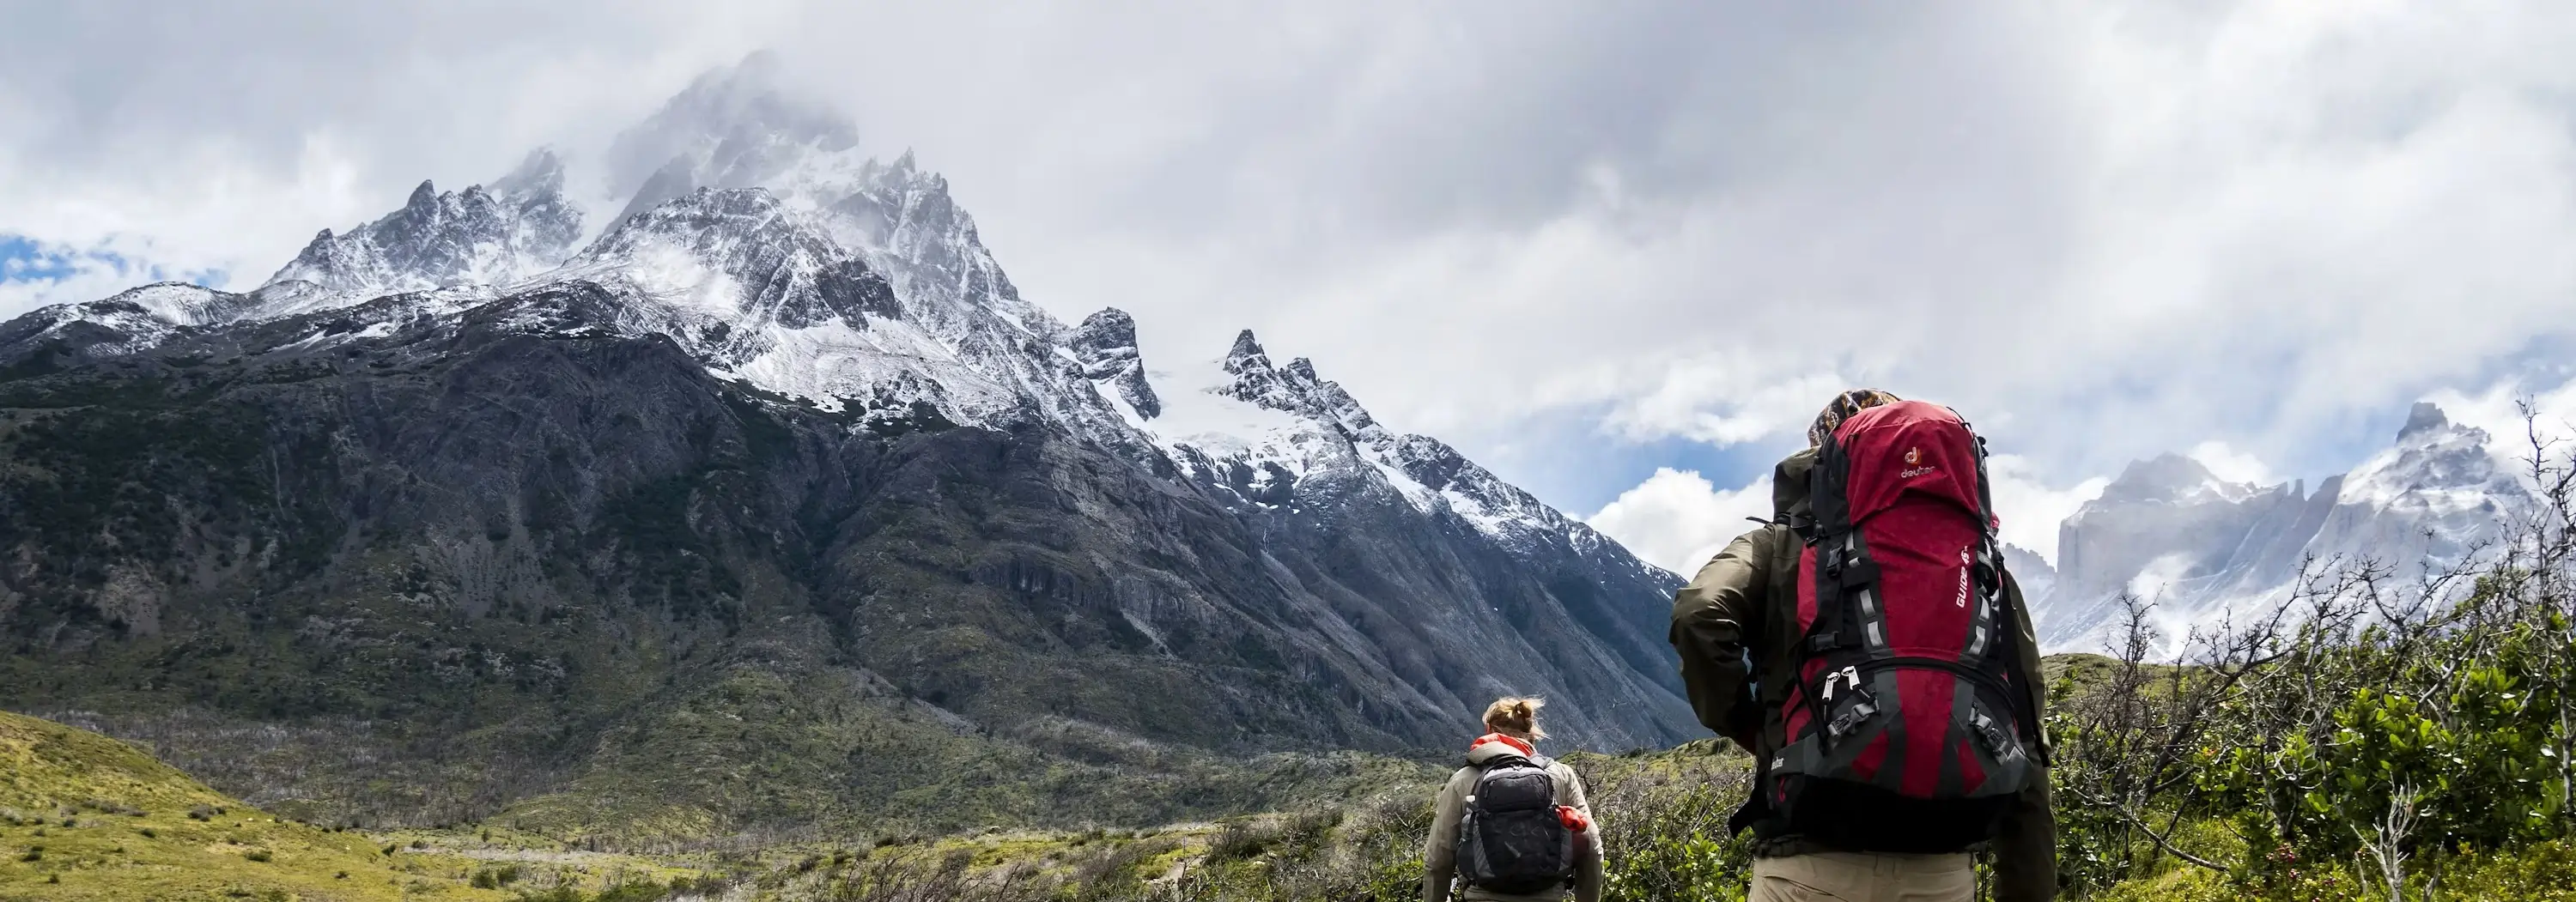
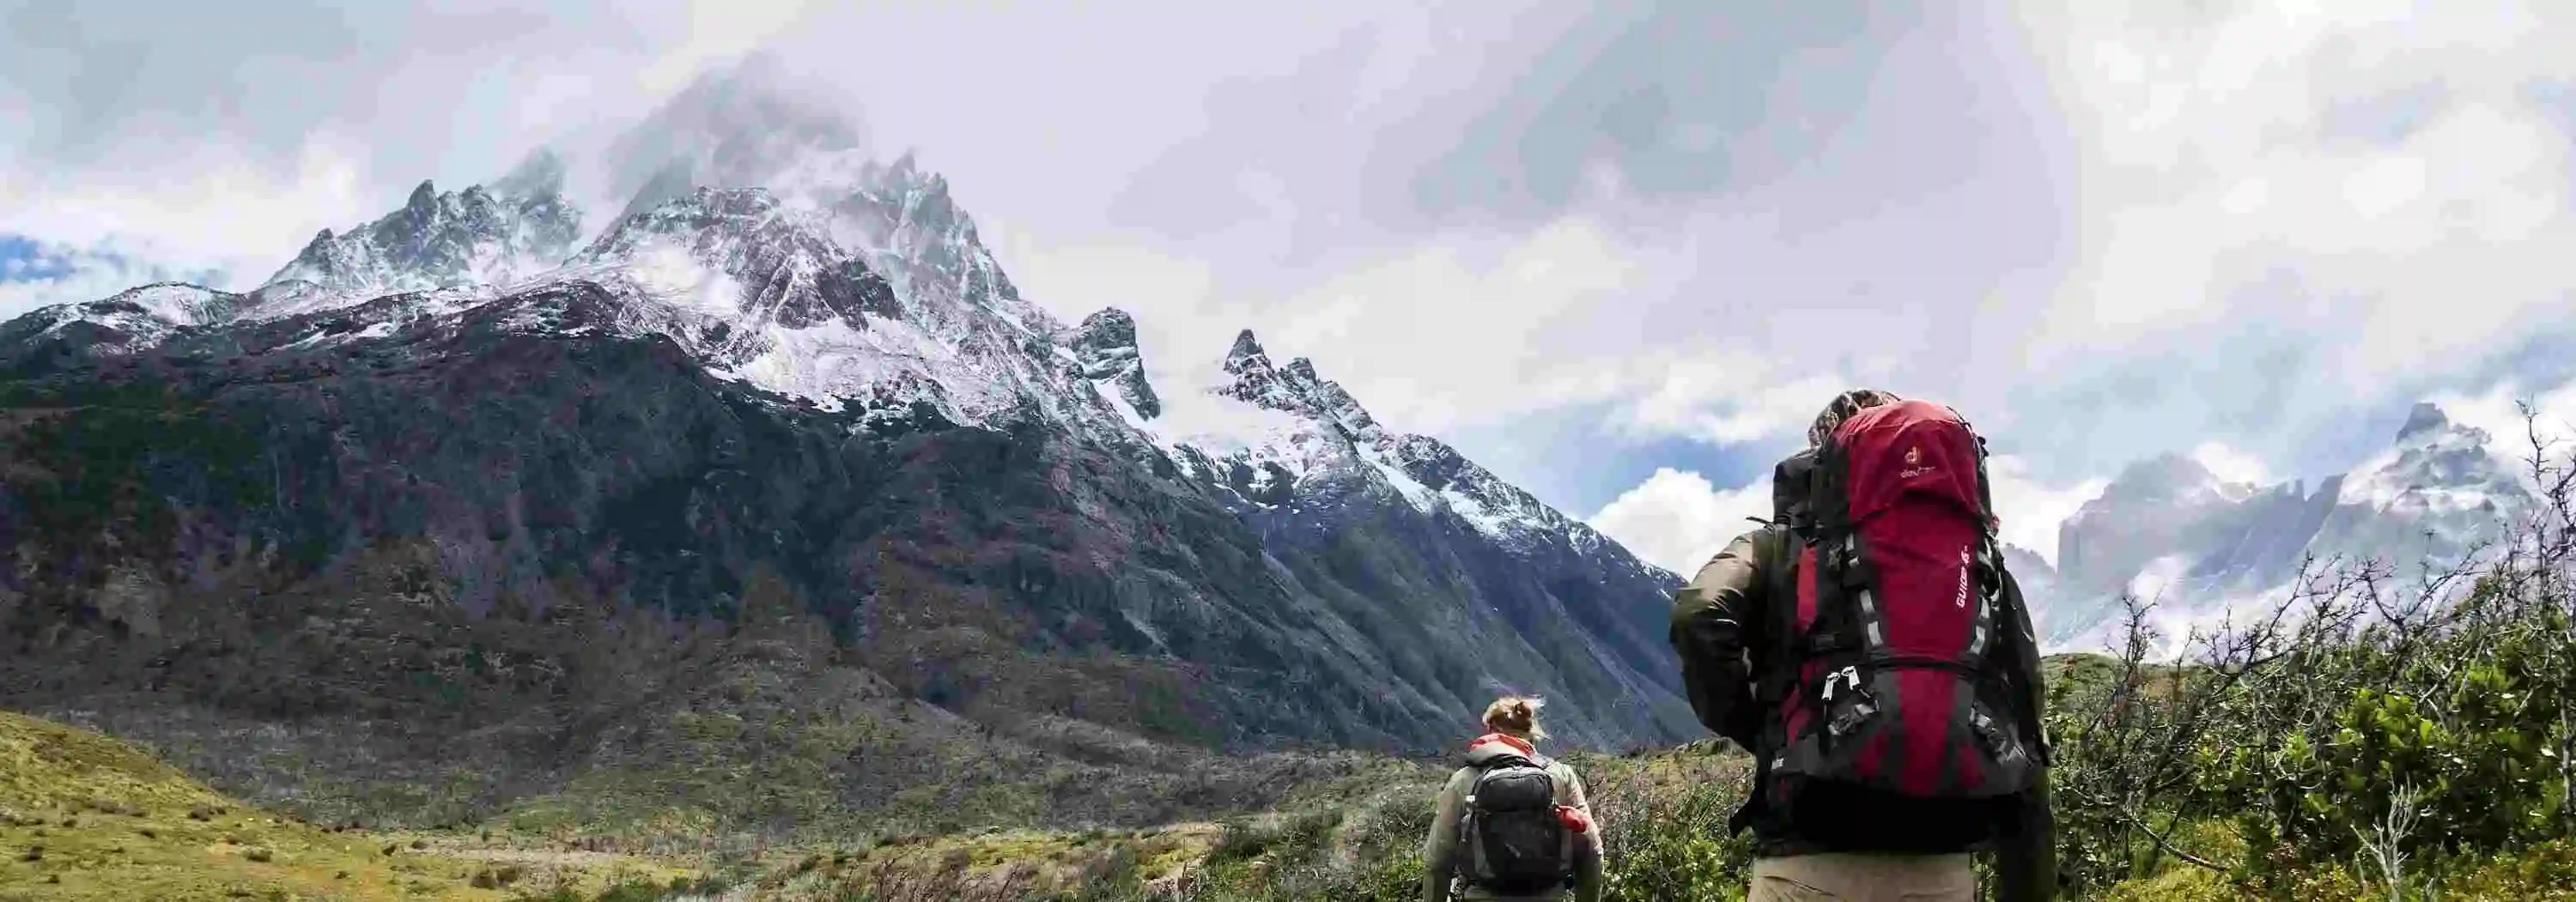
tweaks

diff --git a/final/form.html b/final/form.html
@@ -32,7 +32,7 @@
 	<body>
 		<header>
 			<img
-				src="images/siteicon.png"
+				src="images/headericon.png"
 				alt="Site Logo"
 				width="512"
 				height="512"

diff --git a/final/index.html b/final/index.html
@@ -30,7 +30,7 @@
 	<body>
 		<header>
 			<img
-				src="images/siteicon.png"
+				src="images/headericon.png"
 				alt="Site Logo"
 				width="512"
 				height="512"

diff --git a/final/locations.html b/final/locations.html
@@ -29,7 +29,7 @@
 	<body>
 		<header>
 			<img
-				src="images/siteicon.png"
+				src="images/headericon.png"
 				alt="Site Logo"
 				width="512"
 				height="512"

diff --git a/final/siteplan.html b/final/siteplan.html
@@ -28,7 +28,7 @@
 	<body>
 		<header>
 			<img
-				src="images/siteicon.png"
+				src="images/headericon.png"
 				alt="Site Logo"
 				width="512"
 				height="512"

diff --git a/final/thanks.html b/final/thanks.html
@@ -30,7 +30,7 @@
 	<body>
 		<header>
 			<img
-				src="images/siteicon.png"
+				src="images/headericon.png"
 				alt="Site Logo"
 				width="512"
 				height="512"